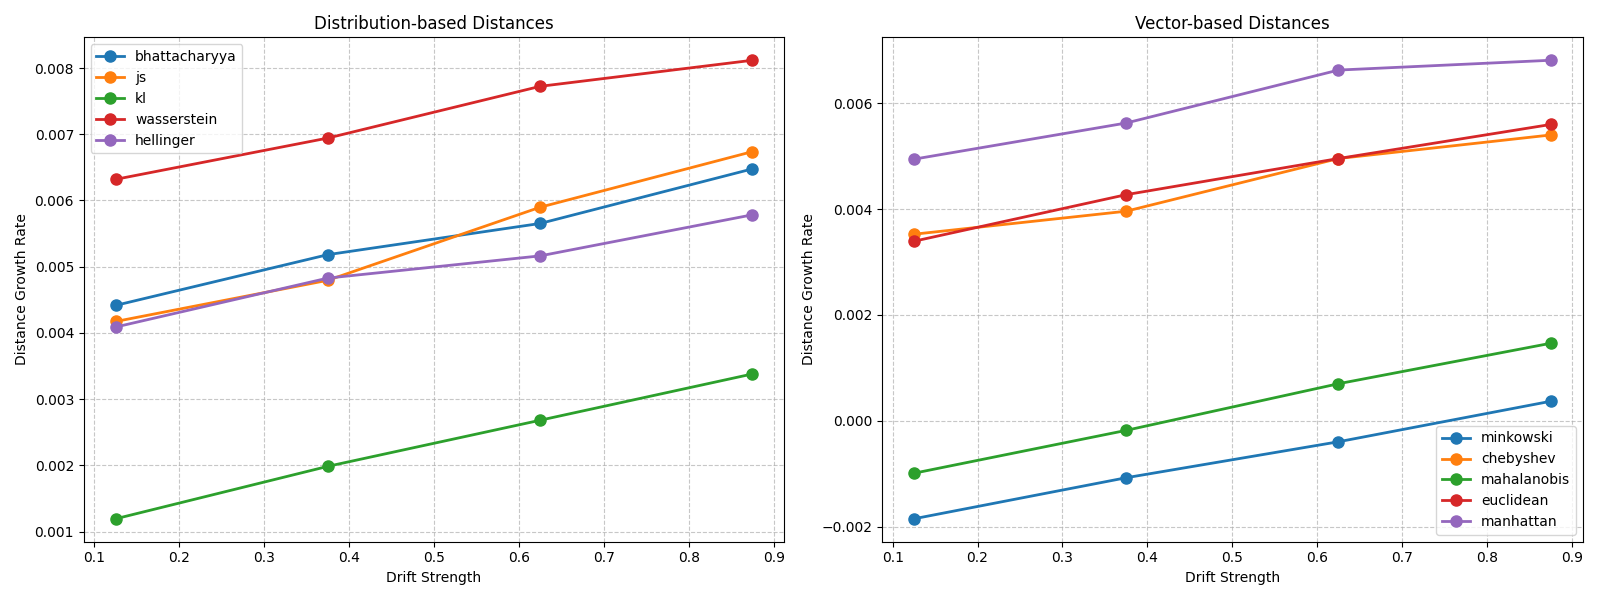
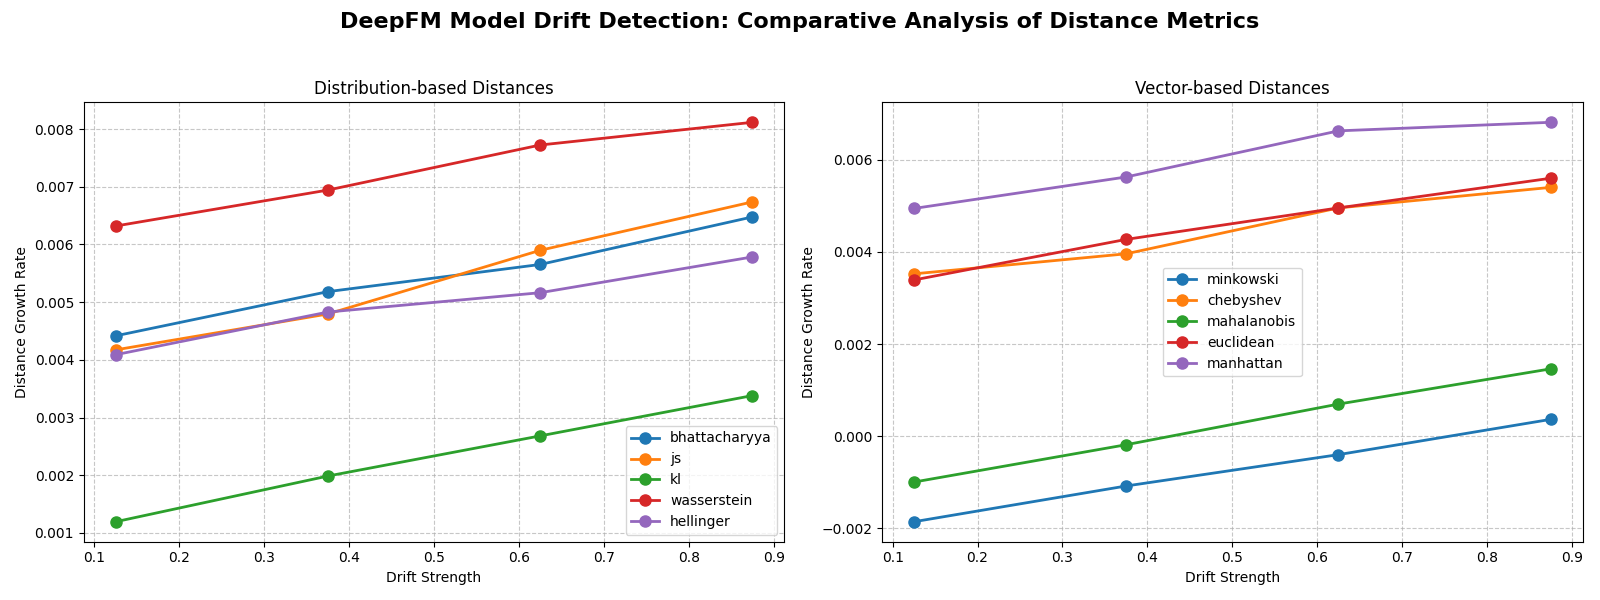
fix: going to last phase

diff --git a/driftwatch/baseline-experiment/analyze_drift_metrics.py b/driftwatch/baseline-experiment/analyze_drift_metrics.py
@@ -70,7 +70,11 @@ class DriftMetricsAnalyzer:
         # Plot vector-based distances (right)
         self._plot_distance_growth_rate_by_type(ax2, vector_based, "Vector-based Distances")
         
-        plt.tight_layout()
+        # Add main title for the figure
+        fig.suptitle("DeepFM Model Drift Detection: Comparative Analysis of Distance Metrics", 
+                    fontsize=16, fontweight='bold', y=0.98)
+        
+        plt.tight_layout(rect=[0, 0, 1, 0.95])  # Adjust layout to make room for the title
         plt.savefig(os.path.join(self.results_folder, "drift_metrics_comparison.png"))
         plt.show()
     
@@ -214,33 +218,7 @@ def main():
         print("Loaded existing experiment results.")
         analyzer.plot_comparative_analysis()
         return
-    
-    print("No existing results found. Creating demo data for visualization...")
-    # Only use example data if no real data exists
-    drift_strengths = [0.0, 0.25, 0.5, 0.75, 1.0]
-    
-    # Simulated results for demonstration
-    euclidean_scores = [0.05, 0.12, 0.26, 0.48, 0.73]
-    euclidean_preds = [0.65, 0.63, 0.59, 0.54, 0.49]
-    analyzer.save_experiment_results("euclidean", drift_strengths, euclidean_scores, euclidean_preds)
-    
-    mahalanobis_scores = [0.12, 0.35, 0.72, 1.45, 2.31]
-    mahalanobis_preds = [0.65, 0.62, 0.57, 0.52, 0.47]
-    analyzer.save_experiment_results("mahalanobis", drift_strengths, mahalanobis_scores, mahalanobis_preds)
-    
-    js_scores = [0.02, 0.08, 0.19, 0.34, 0.52]
-    js_preds = [0.65, 0.62, 0.58, 0.53, 0.48]
-    analyzer.save_experiment_results("js", drift_strengths, js_scores, js_preds)
-    
-    wasserstein_scores = [0.03, 0.11, 0.24, 0.45, 0.69]
-    wasserstein_preds = [0.65, 0.63, 0.58, 0.52, 0.46]
-    analyzer.save_experiment_results("wasserstein", drift_strengths, wasserstein_scores, wasserstein_preds)
-    
-    # Generate comparative analysis
-    analyzer.plot_comparative_analysis()
-    
-    print("Analysis complete! Check the drift_results folder for outputs.")
+
 
 if __name__ == "__main__":
     main()
-
